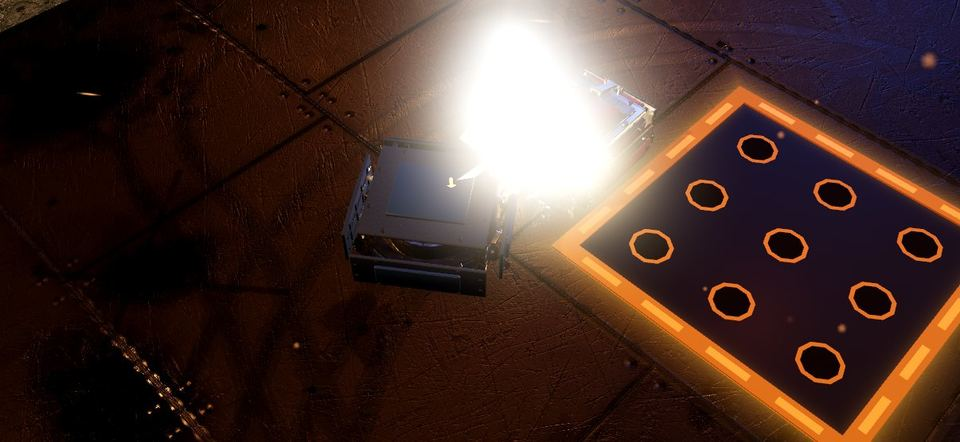
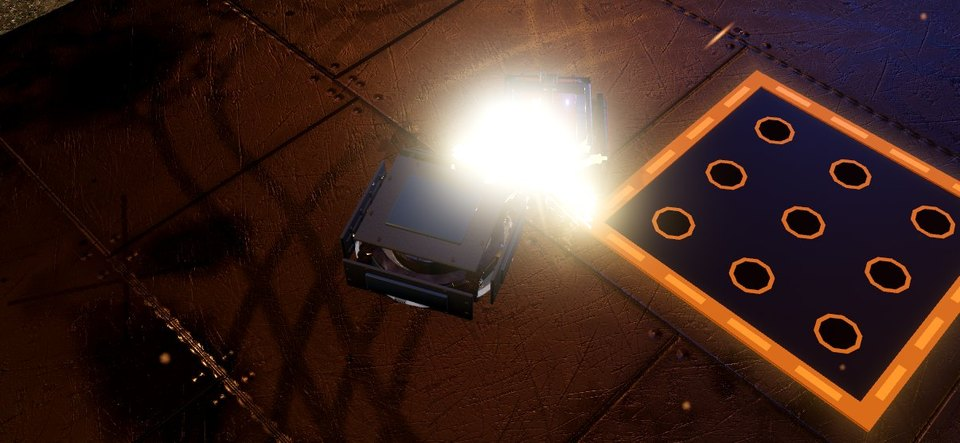
Weapons: contact sheet frames recaptured on 6c038c9 for arc, prod, ram, lifter, horizontal spinner, vortex, full body spinner and flamethrower; their lines carry the 2026-09-27 numbers

diff --git a/docs/look/weapons-gauntlet.html b/docs/look/weapons-gauntlet.html
@@ -26,18 +26,18 @@ p.note{margin:10px 0 0}
 @media (max-width:640px){.frames{grid-template-columns:1fr}}
 </style></head><body><main>
 <h1>Weapons gauntlet</h1>
-<p class="lede">All 16 weapons, each on a legal machine driven by the AI, in the Yard at night. Frames were saved two ticks after the weapon fired or landed (fight camera), eight ticks later (fight camera) and from a closer side camera sharing the fight world. Verdicts come from 144 headless fights; the evidence and the ranked bugs are in docs/qa/weapons-gauntlet.md. 2026-09-25.</p>
+<p class="lede">All 16 weapons, each on a legal machine driven by the AI, in the Yard at night. Frames were saved two ticks after the weapon fired or landed (fight camera), eight ticks later (fight camera) and from a closer side camera sharing the fight world. Verdicts come from 144 headless fights; the evidence and the ranked bugs are in docs/qa/weapons-gauntlet.md. 2026-09-25. Updated 2026-09-27: arc, prod, ram, lifter, horizontal spinner, vortex, full body spinner and flamethrower recaptured on 6c038c9, and their lines carry the 2026-09-27 gauntlet (18 fights each); the summary counts below are still the 2026-09-25 ones.</p>
 <div class="summary">
 <span><span class="v ok">WORKS</span> 6</span>
 <span><span class="v weak">WEAK</span> 4</span>
 <span><span class="v bad">BROKEN</span> 4</span>
 <span><span class="v op">OVERPOWERED</span> 2</span>
 </div>
-<section id="horizontal_spinner"><div class="head"><h2>Horizontal spinner</h2><span class="hull">box / 4wd</span><span class="v op">OVERPOWERED</span><span class="stat">8-1; only 12 of 48 machines beat it</span></div><div class="frames">
+<section id="horizontal_spinner"><div class="head"><h2>Horizontal spinner</h2><span class="hull">box / 4wd</span><span class="v op">STRONG</span><span class="stat">2026-09-27: 14 of 18 on the two runs; as the opponent it still beats 60 % of machines</span></div><div class="frames">
 <figure><img loading="lazy" src="weapons/horizontal_spinner_a.jpg" alt="Horizontal spinner, fight camera, at the moment"><figcaption>fight camera, at the moment</figcaption></figure>
 <figure><img loading="lazy" src="weapons/horizontal_spinner_b.jpg" alt="Horizontal spinner, fight camera, a beat later"><figcaption>fight camera, a beat later</figcaption></figure>
 <figure><img loading="lazy" src="weapons/horizontal_spinner_c.jpg" alt="Horizontal spinner, close angle"><figcaption>close angle</figcaption></figure>
-</div><p class="note">The bar is a thin stick from the fight camera and the bite is buried under a white bloom that covers both machines.</p></section>
+</div><p class="note">The spun-up bar now shows a blur disc from the fight camera; the bite itself is still a white bloom over both machines. Close frame: the bar in the side of the ram. Recaptured 2026-09-27.</p></section>
 <section id="vertical_spinner"><div class="head"><h2>Vertical spinner (drum)</h2><span class="hull">wedge / 4wd</span><span class="v bad">BROKEN</span><span class="stat">2-7 on the wedge: stalls dead with wheels spinning; 5-1 on a box</span></div><div class="frames">
 <figure><img loading="lazy" src="weapons/vertical_spinner_a.jpg" alt="Vertical spinner (drum), fight camera, at the moment"><figcaption>fight camera, at the moment</figcaption></figure>
 <figure><img loading="lazy" src="weapons/vertical_spinner_b.jpg" alt="Vertical spinner (drum), fight camera, a beat later"><figcaption>fight camera, a beat later</figcaption></figure>
@@ -48,11 +48,11 @@ p.note{margin:10px 0 0}
 <figure><img loading="lazy" src="weapons/flipper_b.jpg" alt="Flipper, fight camera, a beat later"><figcaption>fight camera, a beat later</figcaption></figure>
 <figure><img loading="lazy" src="weapons/flipper_c.jpg" alt="Flipper, close angle"><figcaption>close angle</figcaption></figure>
 </div><p class="note">The throw reads clearly when it lands, but on the fire frame the flash sits on the arm and hides the flip.</p></section>
-<section id="lifter"><div class="head"><h2>Lifter</h2><span class="hull">wedge / 4wd (close: box)</span><span class="v bad">BROKEN</span><span class="stat">1-8, lifts almost nothing, turns itself over 36 times a fight</span></div><div class="frames">
+<section id="lifter"><div class="head"><h2>Lifter</h2><span class="hull">wedge / 4wd</span><span class="v weak">WEAK</span><span class="stat">2026-09-27: 11 of 18, mostly on the judges; 0.3 lifts a fight</span></div><div class="frames">
 <figure><img loading="lazy" src="weapons/lifter_a.jpg" alt="Lifter, fight camera, at the moment"><figcaption>fight camera, at the moment</figcaption></figure>
 <figure><img loading="lazy" src="weapons/lifter_b.jpg" alt="Lifter, fight camera, a beat later"><figcaption>fight camera, a beat later</figcaption></figure>
 <figure><img loading="lazy" src="weapons/lifter_c.jpg" alt="Lifter, close angle"><figcaption>close angle</figcaption></figure>
-</div><p class="note">On the wedge it stands itself on its tail against a plain box (middle frame); on a box the lift does read in the close shot.</p></section>
+</div><p class="note">It lifts now: the forks carry the box ram up onto its tail with no flash in the way (seed 33). Seed 11 against the same ram never lifted in 45 s. Recaptured 2026-09-27.</p></section>
 <section id="crusher"><div class="head"><h2>Crusher</h2><span class="hull">box / 4wd</span><span class="v ok">WORKS</span><span class="stat">6-3, 5 kills</span></div><div class="frames">
 <figure><img loading="lazy" src="weapons/crusher_a.jpg" alt="Crusher, fight camera, at the moment"><figcaption>fight camera, at the moment</figcaption></figure>
 <figure><img loading="lazy" src="weapons/crusher_b.jpg" alt="Crusher, fight camera, a beat later"><figcaption>fight camera, a beat later</figcaption></figure>
@@ -68,31 +68,31 @@ p.note{margin:10px 0 0}
 <figure><img loading="lazy" src="weapons/saw_b.jpg" alt="Saw, fight camera, a beat later"><figcaption>fight camera, a beat later</figcaption></figure>
 <figure><img loading="lazy" src="weapons/saw_c.jpg" alt="Saw, close angle"><figcaption>close angle</figcaption></figure>
 </div><p class="note">Sparks at the cut read as cutting; the disc itself is too small to see from the fight camera.</p></section>
-<section id="ram"><div class="head"><h2>Ram</h2><span class="hull">box / 4wd (fights: wedge)</span><span class="v bad">BROKEN</span><span class="stat">0 damage in 18 fights</span></div><div class="frames">
+<section id="ram"><div class="head"><h2>Ram</h2><span class="hull">wedge / 4wd</span><span class="v weak">WEAK</span><span class="stat">2026-09-27: 5 of 18, 1.3 condition a fight</span></div><div class="frames">
 <figure><img loading="lazy" src="weapons/ram_a.jpg" alt="Ram, fight camera, at the moment"><figcaption>fight camera, at the moment</figcaption></figure>
 <figure><img loading="lazy" src="weapons/ram_b.jpg" alt="Ram, fight camera, a beat later"><figcaption>fight camera, a beat later</figcaption></figure>
 <figure><img loading="lazy" src="weapons/ram_c.jpg" alt="Ram, close angle"><figcaption>close angle</figcaption></figure>
-</div><p class="note">Two boxes touching and nothing else: no effect, no sound, no reaction.</p></section>
-<section id="flamethrower"><div class="head"><h2>Flamethrower</h2><span class="hull">box / 4wd</span><span class="v weak">WEAK</span><span class="stat">2-7, fuel gone early</span></div><div class="frames">
+</div><p class="note">Every blow is now a machine-sized white flash with sparks: it reads as a hit, but it hides the ram and the victim. Recaptured 2026-09-27.</p></section>
+<section id="flamethrower"><div class="head"><h2>Flamethrower</h2><span class="hull">box / 4wd</span><span class="v weak">WEAK</span><span class="stat">2026-09-27: 2 of 18, burns all fight but 1.8 condition a fight</span></div><div class="frames">
 <figure><img loading="lazy" src="weapons/flamethrower_a.jpg" alt="Flamethrower, fight camera, at the moment"><figcaption>fight camera, at the moment</figcaption></figure>
 <figure><img loading="lazy" src="weapons/flamethrower_b.jpg" alt="Flamethrower, fight camera, a beat later"><figcaption>fight camera, a beat later</figcaption></figure>
 <figure><img loading="lazy" src="weapons/flamethrower_c.jpg" alt="Flamethrower, close angle"><figcaption>close angle</figcaption></figure>
-</div><p class="note">The flame is a small orange puff under the nose, not a jet; it does not read as fire at the fight distance.</p></section>
-<section id="full_body_spinner"><div class="head"><h2>Full body spinner</h2><span class="hull">shell / 4wd</span><span class="v ok">WORKS</span><span class="stat">7-2, 6 stoppages</span></div><div class="frames">
+</div><p class="note">The burner is a short orange tongue at the nose from the fight camera; still not a jet at that distance. Recaptured 2026-09-27.</p></section>
+<section id="full_body_spinner"><div class="head"><h2>Full body spinner</h2><span class="hull">shell / 4wd</span><span class="v op">STRONG</span><span class="stat">2026-09-27: 15 of 18, 3.4 condition a fight</span></div><div class="frames">
 <figure><img loading="lazy" src="weapons/full_body_spinner_a.jpg" alt="Full body spinner, fight camera, at the moment"><figcaption>fight camera, at the moment</figcaption></figure>
 <figure><img loading="lazy" src="weapons/full_body_spinner_b.jpg" alt="Full body spinner, fight camera, a beat later"><figcaption>fight camera, a beat later</figcaption></figure>
 <figure><img loading="lazy" src="weapons/full_body_spinner_c.jpg" alt="Full body spinner, close angle"><figcaption>close angle</figcaption></figure>
-</div><p class="note">At rest the shell is a plain grey box with no visible ring, and every hit is a white-out.</p></section>
-<section id="shock_prod"><div class="head"><h2>Shock prod</h2><span class="hull">wedge / 4wd (frames: box)</span><span class="v bad">BROKEN</span><span class="stat">0-9 on the wedge (stall), 4-5 on a box</span></div><div class="frames">
+</div><p class="note">The ring reads as a pale band round the shell in the close frame; the hit is still a white-out. Recaptured 2026-09-27.</p></section>
+<section id="shock_prod"><div class="head"><h2>Shock prod</h2><span class="hull">wedge / 4wd</span><span class="v ok">WORKS</span><span class="stat">2026-09-27: 13 of 18 on the wedge (the stall is gone)</span></div><div class="frames">
 <figure><img loading="lazy" src="weapons/shock_prod_a.jpg" alt="Shock prod, fight camera, at the moment"><figcaption>fight camera, at the moment</figcaption></figure>
 <figure><img loading="lazy" src="weapons/shock_prod_b.jpg" alt="Shock prod, fight camera, a beat later"><figcaption>fight camera, a beat later</figcaption></figure>
 <figure><img loading="lazy" src="weapons/shock_prod_c.jpg" alt="Shock prod, close angle"><figcaption>close angle</figcaption></figure>
-</div><p class="note">The zap is the same white flash as any hit; nothing says electricity.</p></section>
-<section id="tesla_arc"><div class="head"><h2>Tesla arc</h2><span class="hull">box / 4wd</span><span class="v ok">WORKS</span><span class="stat">4-5, lands 15 of 19 discharges, never removes a part</span></div><div class="frames">
+</div><p class="note">The zap is a white flash with a few streaks; the violet tint does not survive the bloom. Recaptured 2026-09-27.</p></section>
+<section id="tesla_arc"><div class="head"><h2>Tesla arc</h2><span class="hull">box / 4wd</span><span class="v ok">WORKS</span><span class="stat">2026-09-27: 14 of 18, all on points, 0.1 parts a fight</span></div><div class="frames">
 <figure><img loading="lazy" src="weapons/tesla_arc_a.jpg" alt="Tesla arc, fight camera, at the moment"><figcaption>fight camera, at the moment</figcaption></figure>
 <figure><img loading="lazy" src="weapons/tesla_arc_b.jpg" alt="Tesla arc, fight camera, a beat later"><figcaption>fight camera, a beat later</figcaption></figure>
 <figure><img loading="lazy" src="weapons/tesla_arc_c.jpg" alt="Tesla arc, close angle"><figcaption>close angle</figcaption></figure>
-</div><p class="note">The discharge is a white ball rather than a blue arc, so it reads as a generic impact.</p></section>
+</div><p class="note">A beat after the discharge the jagged bolt streaks do read as electricity; the discharge frame itself is still a white ball, not blue. Recaptured 2026-09-27.</p></section>
 <section id="drill_lance"><div class="head"><h2>Drill lance</h2><span class="hull">box / 4wd</span><span class="v ok">WORKS</span><span class="stat">5-4; loses a won fight to the KO count while latched</span></div><div class="frames">
 <figure><img loading="lazy" src="weapons/drill_lance_a.jpg" alt="Drill lance, fight camera, at the moment"><figcaption>fight camera, at the moment</figcaption></figure>
 <figure><img loading="lazy" src="weapons/drill_lance_b.jpg" alt="Drill lance, fight camera, a beat later"><figcaption>fight camera, a beat later</figcaption></figure>
@@ -108,9 +108,9 @@ p.note{margin:10px 0 0}
 <figure><img loading="lazy" src="weapons/napalm_cannon_b.jpg" alt="Napalm cannon, fight camera, a beat later"><figcaption>fight camera, a beat later</figcaption></figure>
 <figure><img loading="lazy" src="weapons/napalm_cannon_c.jpg" alt="Napalm cannon, close angle"><figcaption>close angle</figcaption></figure>
 </div><p class="note">The fire patch is a soft orange disc and the shell in flight is not visible.</p></section>
-<section id="vortex_spinner"><div class="head"><h2>Vortex spinner</h2><span class="hull">shell / 4wd</span><span class="v op">OVERPOWERED</span><span class="stat">9-0, ring-outs at 4.4 s and 5.8 s</span></div><div class="frames">
+<section id="vortex_spinner"><div class="head"><h2>Vortex spinner</h2><span class="hull">shell / 4wd</span><span class="v ok">WORKS</span><span class="stat">2026-09-27: 13 of 18, no ring-outs (was 9-0 with ring-outs in seconds)</span></div><div class="frames">
 <figure><img loading="lazy" src="weapons/vortex_spinner_a.jpg" alt="Vortex spinner, fight camera, at the moment"><figcaption>fight camera, at the moment</figcaption></figure>
 <figure><img loading="lazy" src="weapons/vortex_spinner_b.jpg" alt="Vortex spinner, fight camera, a beat later"><figcaption>fight camera, a beat later</figcaption></figure>
 <figure><img loading="lazy" src="weapons/vortex_spinner_c.jpg" alt="Vortex spinner, close angle"><figcaption>close angle</figcaption></figure>
-</div><p class="note">The lift reads (the opponent pops up and over), but the hit frame is fully white and the shell has no visible teeth.</p></section>
+</div><p class="note">The toothed band shows round the shell in the close frame; the hit is still a white-out. Recaptured 2026-09-27.</p></section>
 <p class="stat">Common to almost every row: at contact a white bloom the size of a machine covers both machines. Throws read well when the flash is not on them.</p></main></body></html>
